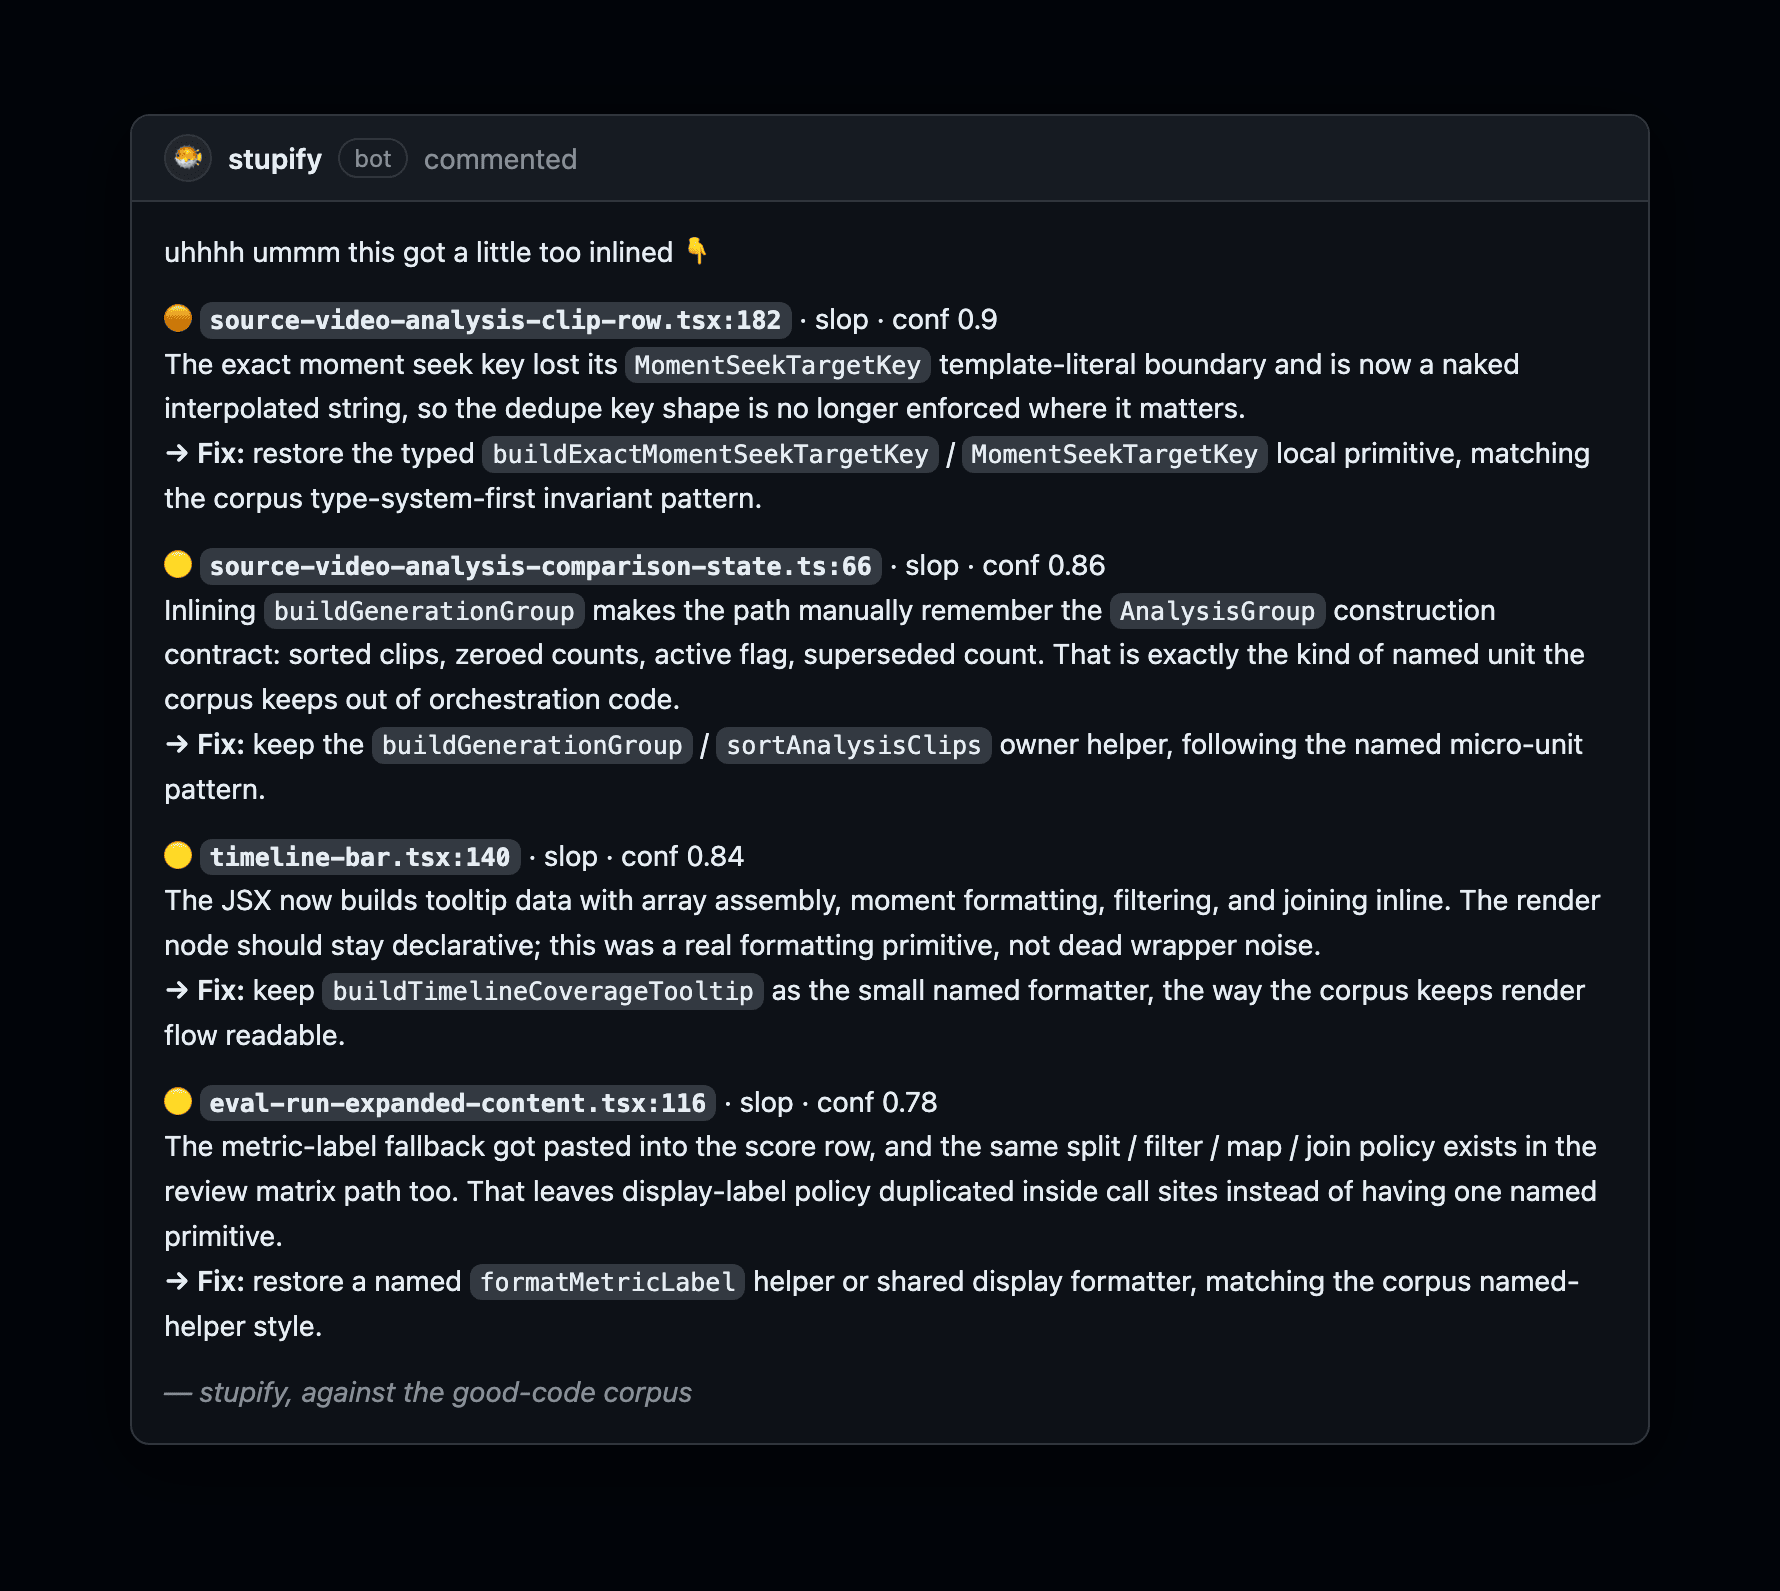
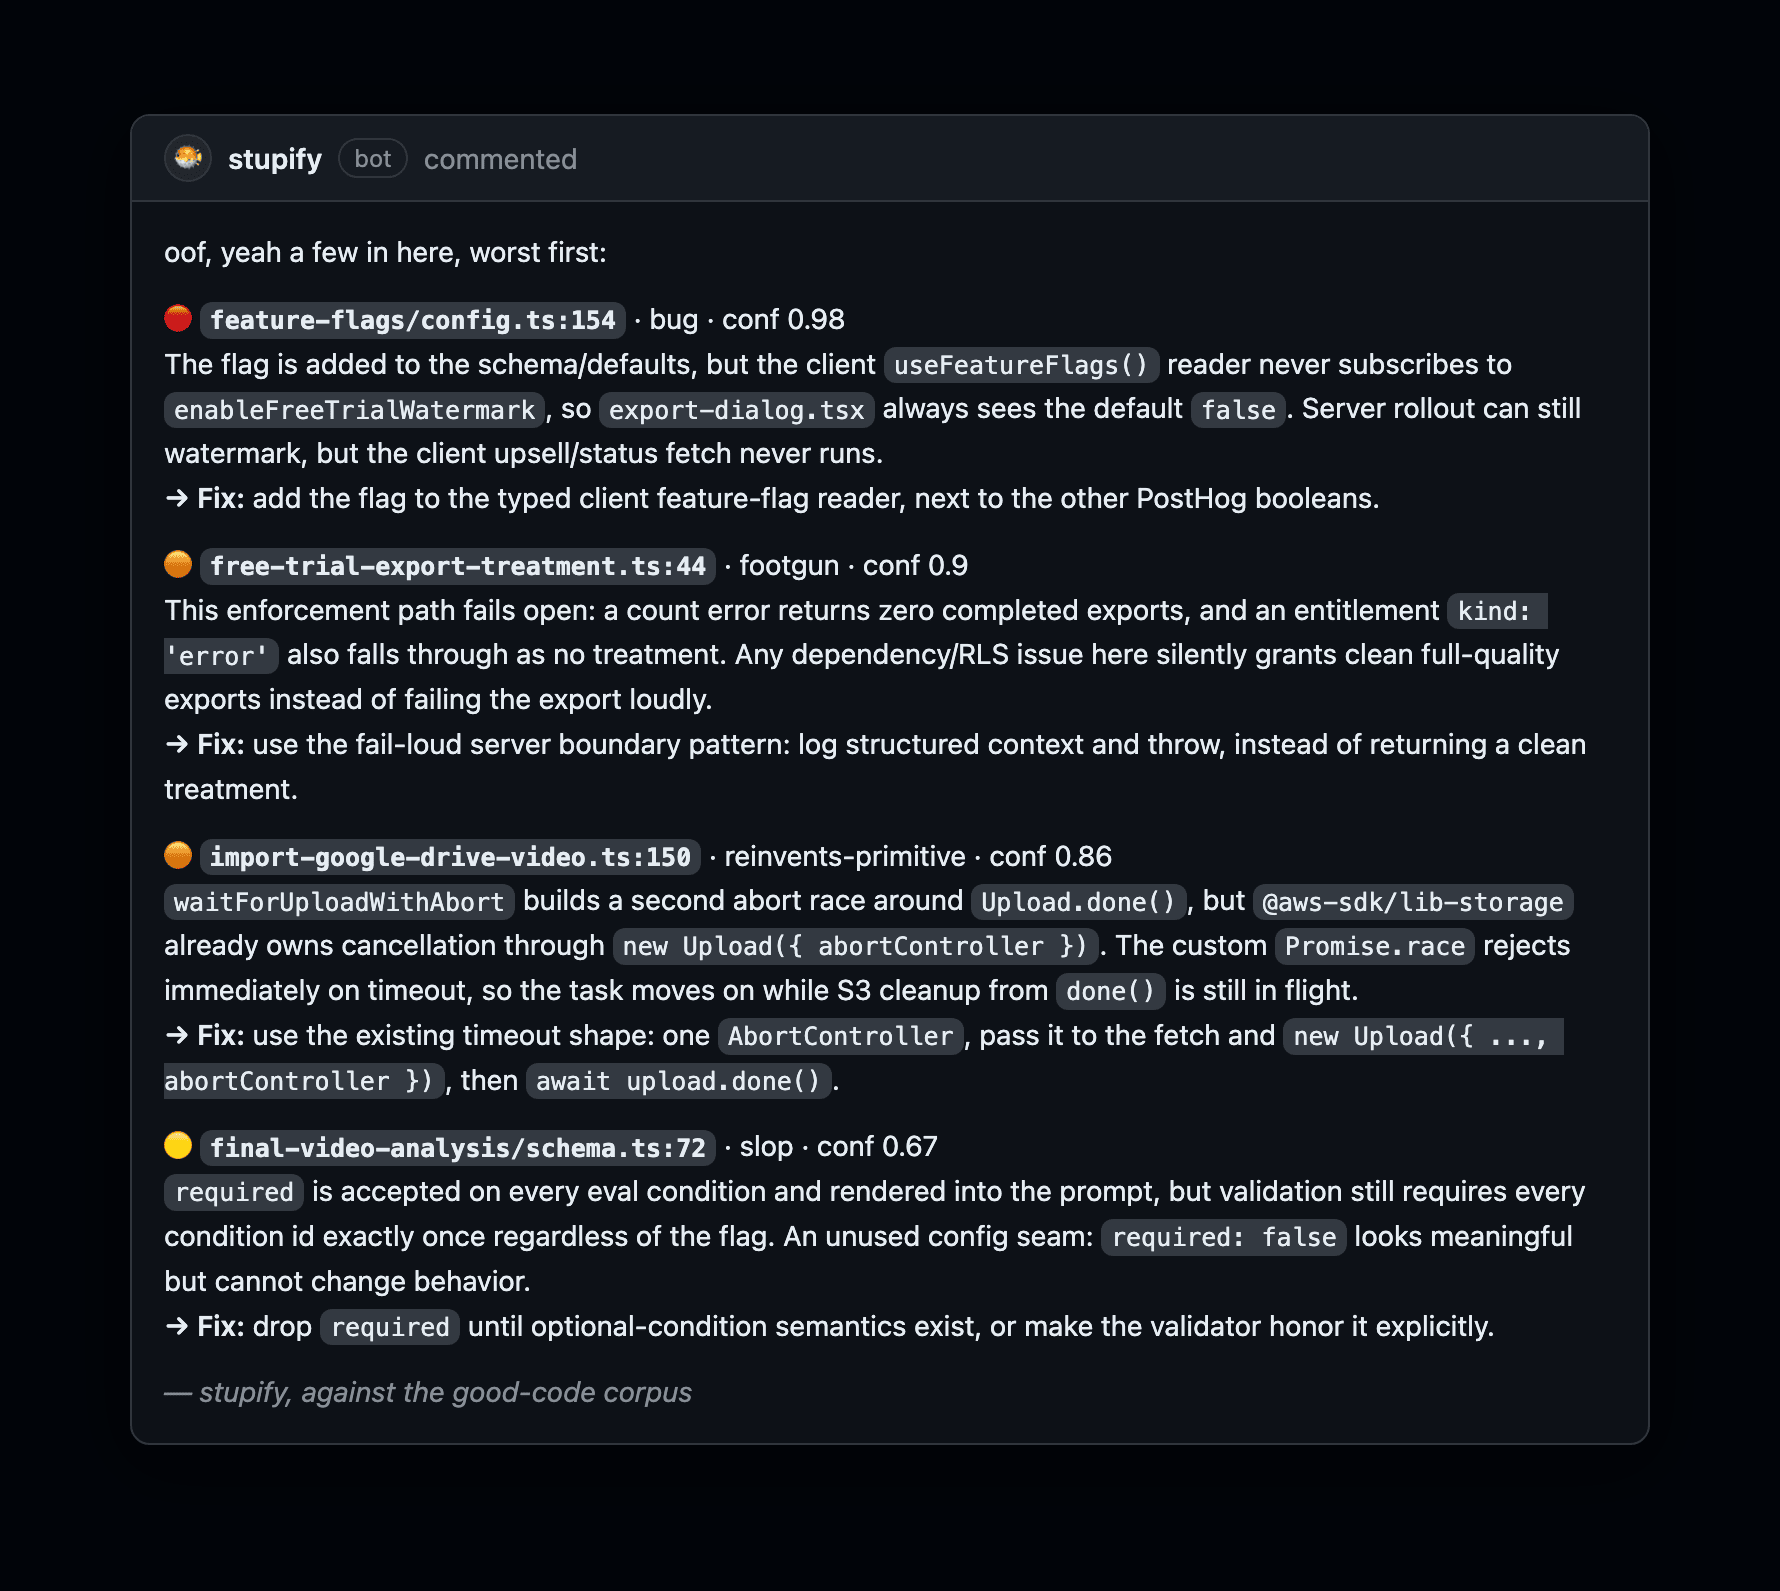
Proof hero: show the full range, not one kind
New hero is one review with all four finding kinds, worst-first: a 0.98 bug
(flag never read client-side), a fail-open footgun (silently grants paid
exports), a reinvents-primitive (rebuilt the AWS SDK's cancellation, races
wrong), and a slop config seam. The whole pitch: others stop at the bug.
De-duped the gallery so the AWS/seam catches don't repeat the hero.

Changed region(s): [[0.0927, 0.4928, 0.8961, 0.8624], [0.0927, 0.154, 0.8961, 0.4928]]

diff --git a/docs/PROOF.md b/docs/PROOF.md
@@ -6,12 +6,12 @@ stupify catching it on real PRs, each finding naming the corpus primitive to use
 
 ---
 
-### It knows the library already does this
+### It catches a named helper dissolved into call sites
 
-![stupify flags a second abort race hand-built around the AWS SDK's own cancellation, which also races wrong and bails while S3 cleanup is still running.](proof/slop-sdk.png)
+![stupify flags an inlined buildGenerationGroup that makes the call site manually re-remember a whole construction contract the corpus keeps in one named unit.](proof/slop-inlined.png)
 
-A second abort race hand-built around the AWS SDK's own cancellation. The reinvention also races wrong: the task
-bails to failure handling while S3 cleanup is still in flight. Taste and a real bug in one finding.
+A helper got inlined, so the call site now manually remembers a whole construction contract: sorted clips, zeroed
+counts, active flag, superseded count. That is the kind of named unit the corpus keeps out of orchestration code.
 
 ---
 
@@ -24,12 +24,12 @@ more ways to get the finish ordering wrong, for no new behavior.
 
 ---
 
-### It catches the config seam that does nothing
+### It catches duplicated data that is already drifting
 
-![stupify flags a 'required' flag that is accepted and rendered but ignored by validation, so it cannot change behavior.](proof/slop-seam.png)
+![stupify flags a prompt that hand-copied a phrase list which is already out of sync with the schema and the eval guard.](proof/slop-dup.png)
 
-`required` is accepted and rendered into the prompt, but validation ignores it. It looks meaningful; it cannot
-change behavior. Most reviewers skim right past it.
+A phrase list got hand-copied into a prompt instead of rendered from the one exported source, and it is already
+out of sync with the schema and the eval guard. Two copies, one of them already wrong.
 
 ---
 

diff --git a/README.md b/README.md
@@ -10,9 +10,9 @@
 [![npm](https://img.shields.io/npm/v/@stupify/cli?color=cb3837&label=%40stupify%2Fcli)](https://www.npmjs.com/package/@stupify/cli)
 [![License: MIT](https://img.shields.io/badge/license-MIT-blue.svg)](LICENSE)
 
-![A real stupify review on a PR that inlined four named helpers. stupify flags each one as slop and names the corpus primitive to restore.](docs/proof/00-slop.png)
+![A real stupify review with four kinds of finding in one pass: a high-confidence bug, a fail-open footgun, a reinvented SDK primitive, and a dead config seam.](docs/proof/00-slop.png)
 
-*A real PR quietly inlined four of its named helpers. stupify flagged each one against the corpus, with the exact primitive to put back.* **[more catches, on real PRs →](docs/PROOF.md)**
+*One review, four kinds of finding: a bug, a fail-open footgun, a reinvented SDK primitive, and a dead config seam. Most reviewers stop at the first one.* **[more catches, on real PRs →](docs/PROOF.md)**
 
 ### What you get
 